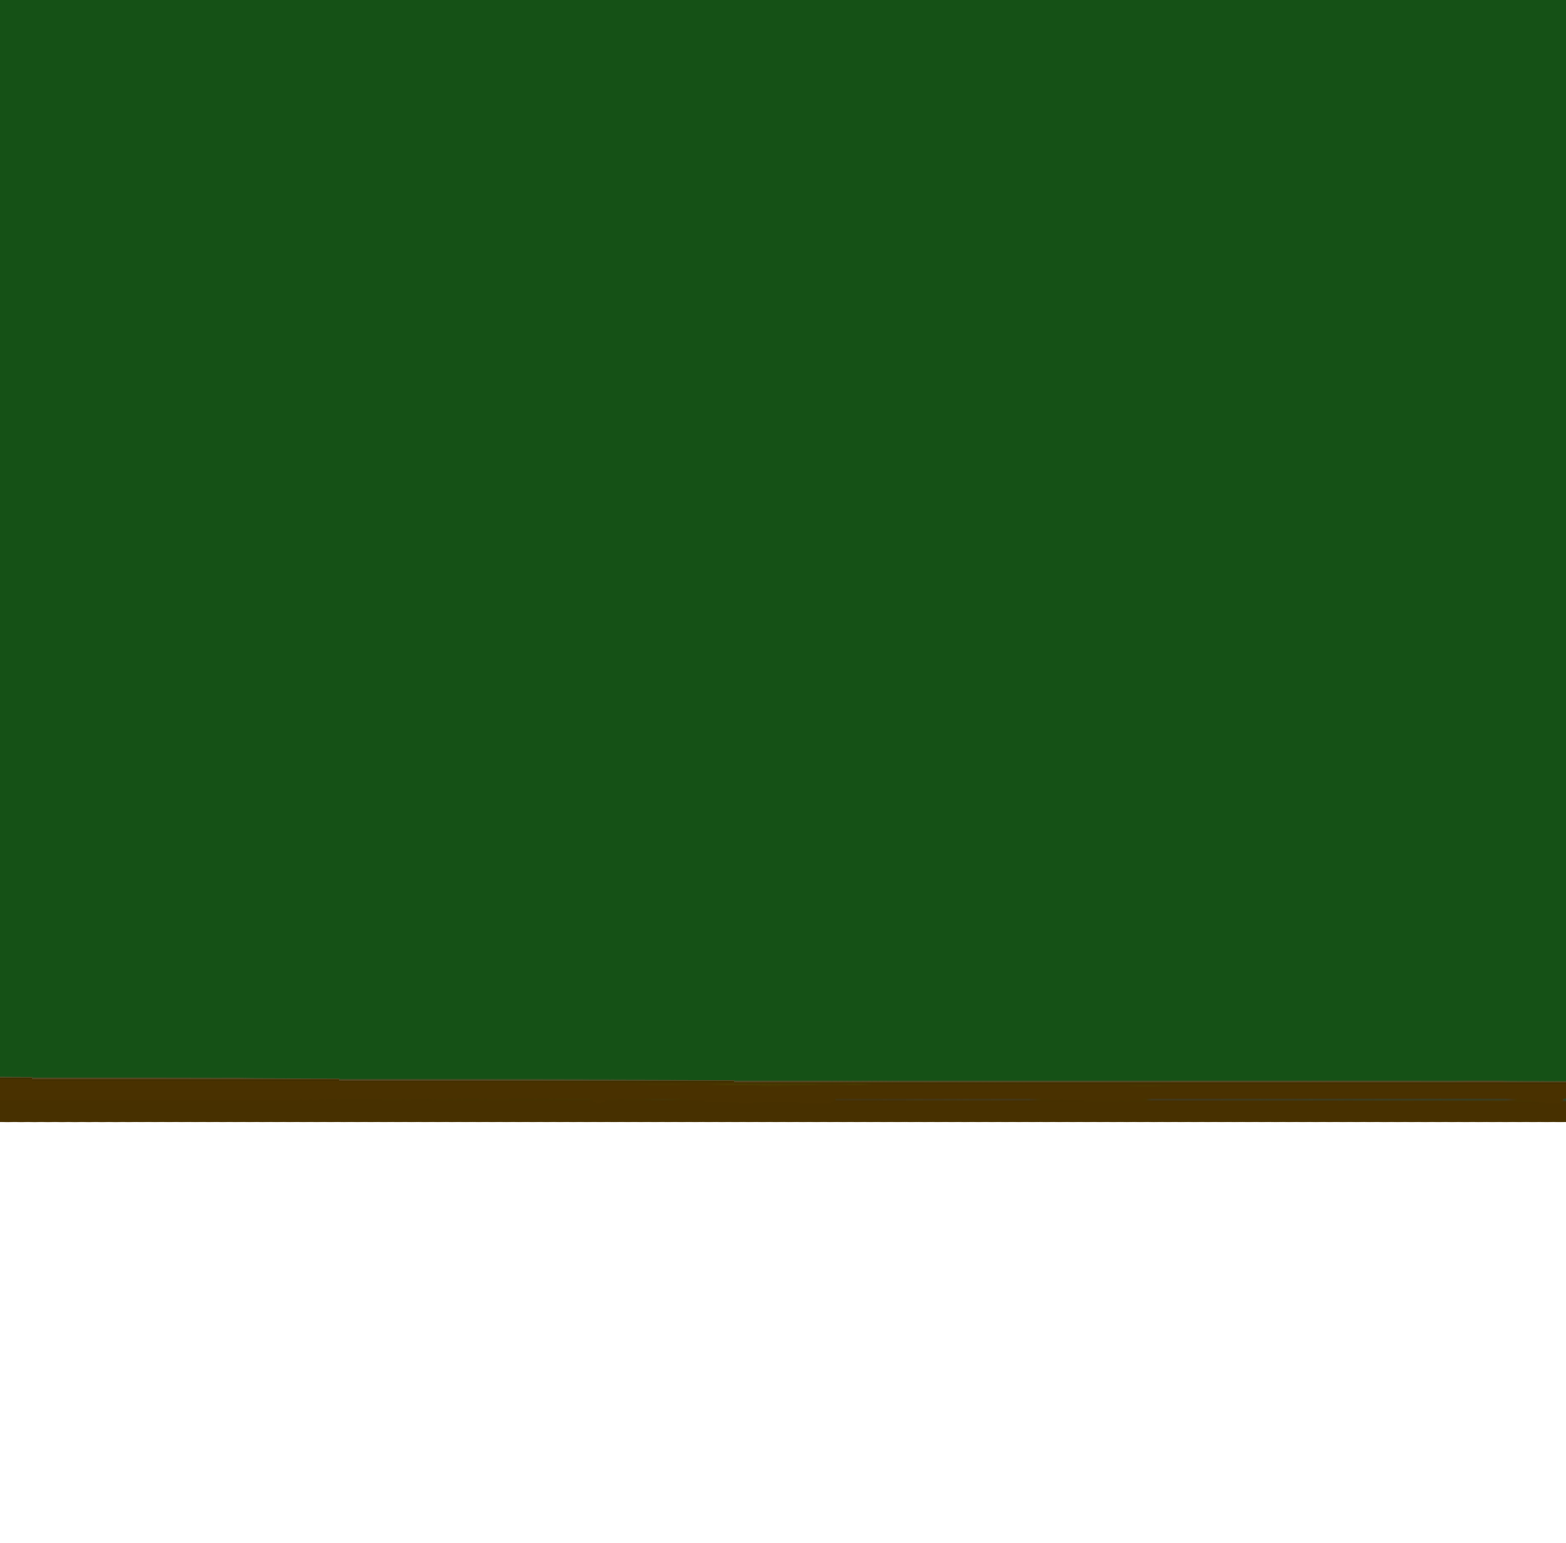
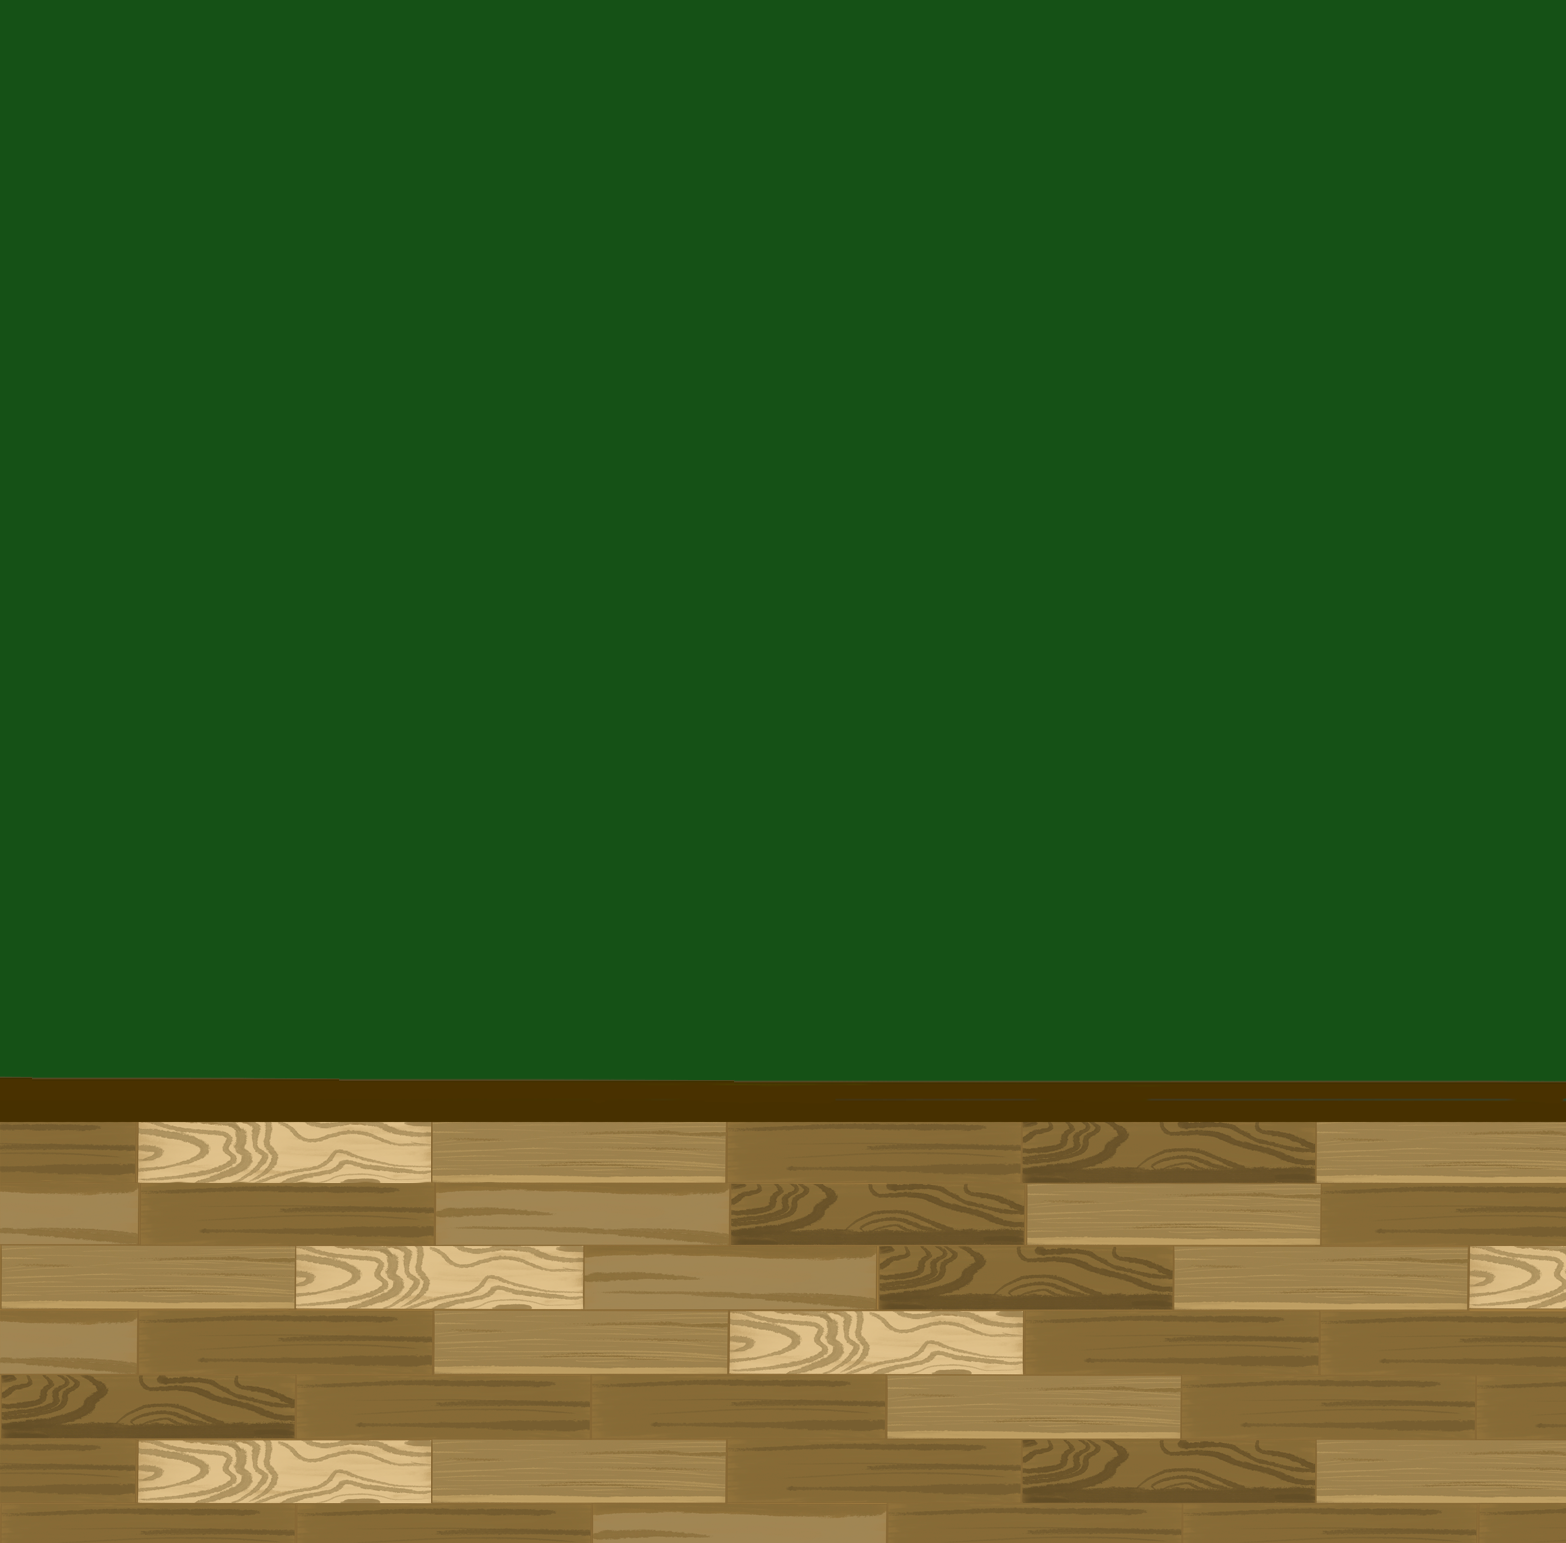
main2
地板的两种方法比较 main VS main2

Changed region(s): [[0.0, 0.7155, 1.0, 1.0]]

diff --git a/css/style2.css b/css/style2.css
@@ -9,6 +9,12 @@ html ,body{
     height:100vh;
     /* overflow-y: hidden; */
 }
+.outer {
+    overflow: hidden;
+    position: relative;
+    height: 100vh;
+    width: 457vw;
+}
 .slide{
     position: absolute;
     height: 100vh;
@@ -25,7 +31,7 @@ html ,body{
 }
 .one {
     width: 120vw;
-    background-image: url(../images/1.png);
+    background-image: url(../images/wall1.png);
     background-size: cover;
     z-index:999;
     left: 0;
@@ -39,7 +45,7 @@ html ,body{
 
 .two {
     width: 150vw;
-    background-image: url(../images/2.png);
+    background-image: url(../images/wall2.png);
     background-size:cover;
     z-index: 997;
     left: 75vw;
@@ -52,7 +58,7 @@ html ,body{
 }
 .three {
     width: 120vw;
-    background-image: url(../images/3.png);
+    background-image: url(../images/wall3.png);
     background-size:cover;
     z-index:999;
     left:230vw
@@ -64,7 +70,7 @@ html ,body{
 }
 .four {
     width: 150vw;
-    background-image: url(../images/4.png);
+    background-image: url(../images/wall4.png);
     background-size:cover;
     z-index:997;
     left: 235vw;
@@ -77,7 +83,7 @@ html ,body{
 }
 .five {
     width: 130vw;
-    background-image: url(../images/5.png);
+    background-image: url(../images/wall5.png);
     background-size:cover;
     z-index:998;
     left: 490vw;
@@ -90,7 +96,7 @@ html ,body{
 }
 .six {
     width: 120vw;
-    background-image: url(../images/6.png);
+    background-image: url(../images/wall6.png);
     background-size:cover;
     z-index:999;
     left: 775vw;
@@ -210,36 +216,35 @@ html ,body{
 .pseven {
     z-index: 996;
     bottom: 16vh;
-    right: -180vw;
+    right: -200vw;
     width: 25vw;
 }
-#floor{
+/* #floor{
     position: absolute;
     background-image: url("../images/floor.png");
     background-size: cover;
-    width:1000vw;
+    width:1400vw;
     height: 40vh;
     bottom: 0;
     right: 0;
     z-index: 995;
-}
-/* #flrdiv {
+} */
+#flrdiv {
     position: absolute;
     height: 100vh;
     width: 120vw;
-    background-image: url(../images/6.png);
-    background-size:cover;
+    /* background-image: url(../images/6.png); */
+    /* background-size:cover; */
     z-index:995;
     left: 775vw;
-    overflow-x: hidden;
+    
 }
 #floor{
     position: absolute;
     background-image: url("../images/floor.png");
-    background-size: cover;
+    background-size: contain;
     width:1000vw;
-    height: 40vh;
+    height: 45vh;
     bottom: 0;
     right: 0;
-    /* z-index: 995; */
-} */
+}

diff --git a/main2.html b/main2.html
@@ -4,9 +4,10 @@
     <meta charset="UTF-8">
     <meta name="viewport" content="width=device-width, initial-scale=1.0, maximum-scale=1.0, user-scalable=0">
     <title>Document</title>
-    <link rel="stylesheet" href="css/style.css" type="text/css" />
+    <link rel="stylesheet" href="css/style2.css" type="text/css" />
 </head>
 <body>
+    <div class="outer">
             <div class="slide one rellax" data-rellax-speed="5" >
                 <div class="img ione"></div>
                 <img src="images/plant1.png" class="plant pone rellax" data-rellax-speed="1.3">
@@ -35,13 +36,13 @@
             <div class="slide six rellax" data-rellax-speed="10">
                 <div class="img isix"></div>
                 <img src="images/plant1.png" class="plant psix rellax" data-rellax-speed="1.8">
-                <img src="images/plant1.png" class="plant pseven rellax" data-rellax-speed="2.5">
+                <img src="images/plant1.png" class="plant pseven rellax" data-rellax-speed="3">
                  <!-- <div id="floor" class="rellax" data-rellax-speed="8"><div> -->
             </div>
-            <!-- <div id="flrdiv" class="rellax" data-rellax-speed="10">
-                <div id="floor" class="rellax" data-rellax-speed="-12"><div></div>
-            </div> -->
-            
+            <div id="flrdiv" class="rellax" data-rellax-speed="5">
+                <div id="floor"><div></div>
+            </div>
+            <!-- <div id="floor" class="rellax" data-rellax-speed="8"></div> -->
             
             <div class="comment close">
                 <p id="title">标题1标题1</p>
@@ -49,7 +50,7 @@
                 <div class="back"></div>
                 <div class="forward"></div>
             </div>
-           
+        
 </body>
 <script src="js/rellax.js"></script>
 <script src="https://cdn.bootcdn.net/ajax/libs/jquery/3.5.0/jquery.js"></script>
